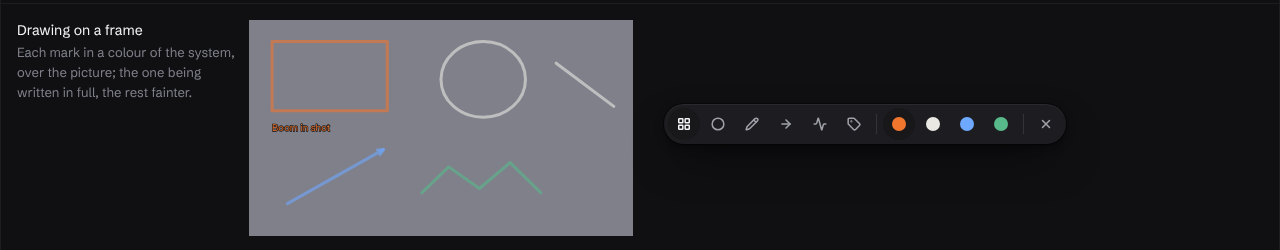
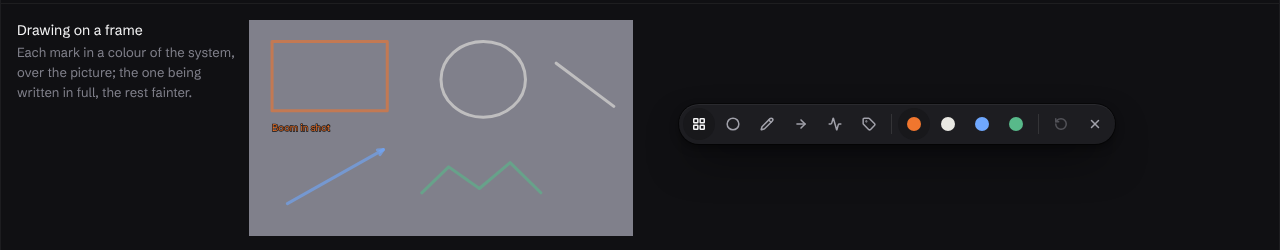
fix(web): drawings follow each frame, seek from their comment, undo, and match their region (#146)
While a video with drawings plays, the player follows each presented frame
(requestVideoFrameCallback), so a single-frame drawing is shown; a drawing's comment label seeks
to its frame; the toolbar's Undo brings back the drawing a new one replaced; and the schema
refuses a drawn region whose rectangle is not its drawing's bounds.

Claude-Session: https://claude.ai/code/session_015TRj2XJrf2hGBbTKBkRfmp

Changed region(s): [[0.5312, 0.448, 0.875, 0.532], [0.8125, 0.392, 0.8438, 0.42]]

diff --git a/apps/web/src/components/drawings.tsx b/apps/web/src/components/drawings.tsx
@@ -5,7 +5,14 @@ import {
   drawingColours,
   drawingTools,
 } from "@hekate/shared";
-import { type PointerEvent, type ReactNode, useRef, useState } from "react";
+import {
+  type PointerEvent,
+  type ReactNode,
+  type RefObject,
+  useEffect,
+  useRef,
+  useState,
+} from "react";
 import { cn } from "~/lib/cn";
 import { Icon, type IconName } from "./icons";
 import { Input } from "./ui/input";
@@ -48,6 +55,43 @@ const toolCopy: Record<DrawingTool, { label: string; icon: IconName }> = {
   free: { label: "Freehand", icon: "pulse" },
   text: { label: "Text", icon: "tag" },
 };
+
+/**
+ * The picture's own time, frame by frame while it plays (#146). `timeupdate` comes only a few
+ * times a second, so a drawing on a single frame would slip past unseen between two of them;
+ * each frame the video presents is followed here instead. Paused, it is `fallback`.
+ */
+export function useFrameClock(
+  video: RefObject<HTMLVideoElement | null>,
+  running: boolean,
+  fallback: number,
+): number {
+  const [now, setNow] = useState<number | null>(null);
+  useEffect(() => {
+    const element = video.current;
+    if (!running || !element) {
+      setNow(null);
+      return;
+    }
+    let stopped = false;
+    let handle = 0;
+    const perFrame = typeof element.requestVideoFrameCallback === "function";
+    const tick = (_at?: number, frame?: VideoFrameCallbackMetadata) => {
+      if (stopped) return;
+      setNow(frame?.mediaTime ?? element.currentTime);
+      handle = perFrame
+        ? element.requestVideoFrameCallback(tick)
+        : requestAnimationFrame(() => tick());
+    };
+    tick();
+    return () => {
+      stopped = true;
+      if (perFrame) element.cancelVideoFrameCallback(handle);
+      else cancelAnimationFrame(handle);
+    };
+  }, [video, running]);
+  return now ?? fallback;
+}
 
 /** Units across the picture's height; its width is the aspect times this, so shapes keep their shape. */
 const H = 1000;
@@ -304,12 +348,15 @@ export function DrawToolbar({
   onTool,
   colour,
   onColour,
+  onUndo,
   onClose,
 }: {
   tool: DrawingTool;
   onTool: (tool: DrawingTool) => void;
   colour: DrawingColour;
   onColour: (colour: DrawingColour) => void;
+  /** Takes back the last drawing, as the prototype's toolbar does; absent when there is none. */
+  onUndo?: () => void;
   onClose: () => void;
 }) {
   const button =
@@ -349,6 +396,19 @@ export function DrawToolbar({
         </button>
       ))}
       <span className="mx-1 h-5 w-px bg-line-strong" />
+      <button
+        type="button"
+        aria-label="Undo"
+        title="Undo"
+        disabled={!onUndo}
+        onClick={onUndo}
+        className={cn(
+          button,
+          "text-ink-2 hover:text-ink disabled:cursor-default disabled:opacity-40",
+        )}
+      >
+        <Icon name="back5" size={14} />
+      </button>
       <button
         type="button"
         aria-label="Stop drawing"

diff --git a/apps/web/src/components/player.tsx b/apps/web/src/components/player.tsx
@@ -59,6 +59,7 @@ import {
   DrawToolbar,
   type FrameDraft,
   type FrameDrawing,
+  useFrameClock,
 } from "./drawings";
 import { EditLane } from "./edit-lane";
 import { Icon } from "./icons";
@@ -297,6 +298,13 @@ export function Player({
   const clock = useMemo(() => (info?.video ? videoClock(info.video) : null), [info?.video]);
   /** How long a frame shows: a drawing on one shows for that long (#146). */
   const frameSeconds = clock ? frameTime(1, clock.rate) : 1 / 25;
+  // Followed frame by frame while it plays, but only when there is a drawing to show (#146).
+  const frameNow = useFrameClock(media, kind === "video" && playing && drawings.length > 0, time);
+  /** The drafts each new drawing replaced, newest last, for Undo; gone once the draft is. */
+  const undo = useRef<(FrameDraft | null)[]>([]);
+  useEffect(() => {
+    if (!draft) undo.current = [];
+  }, [draft]);
   const [matte, setMatte] = useState<Matte | null>(null);
   const [safe, setSafe] = useState(false);
   // Drawing on the frame (#146): the tool and colour chosen, kept while drawing is on.
@@ -724,7 +732,7 @@ export function Player({
             <DrawingMarks
               aspect={info.video.width / info.video.height}
               drawings={drawings
-                .filter((d) => regionShowsAt(d, time, frameSeconds))
+                .filter((d) => regionShowsAt(d, frameNow, frameSeconds))
                 .map((d) => d.drawing)}
               draft={draft?.drawing ?? null}
             />
@@ -735,18 +743,21 @@ export function Player({
                 tool={tool}
                 colour={colour}
                 aspect={info.video.width / info.video.height}
-                onDrawn={(drawing) =>
+                onDrawn={(drawing) => {
+                  // Each drawing replaces the one before, which Undo brings back.
+                  undo.current.push(draft);
                   onDraft({
                     drawing,
                     at: Math.round((media.current?.currentTime ?? time) * 1000) / 1000,
-                  })
-                }
+                  });
+                }}
               />
               <DrawToolbar
                 tool={tool}
                 onTool={setTool}
                 colour={colour}
                 onColour={setColour}
+                onUndo={draft ? () => onDraft(undo.current.pop() ?? null) : undefined}
                 onClose={() => setDrawingOn(false)}
               />
             </>

diff --git a/packages/shared/src/anchor.ts b/packages/shared/src/anchor.ts
@@ -81,7 +81,22 @@ export const regionAnchor = z
   .refine((a) => a.end === undefined || (a.at !== undefined && a.end >= a.at), {
     message: "a range must start before it ends",
     path: ["end"],
-  });
+  })
+  // The region is where the drawing is, never somewhere else, whoever sent it.
+  .refine(
+    (a) => {
+      if (!a.drawing) return true;
+      const box = drawingBounds(a.drawing);
+      const near = (p: number, q: number) => Math.abs(p - q) < 1e-3;
+      return (
+        near(a.x, box.x) &&
+        near(a.y, box.y) &&
+        near(a.width, box.width) &&
+        near(a.height, box.height)
+      );
+    },
+    { message: "a drawn region is the box around its drawing", path: ["drawing"] },
+  );
 
 /** The box around a drawing, as its region: at least a hair wide, so a straight line has one. */
 export function drawingBounds(d: Pick<Drawing, "points">): {

diff --git a/apps/web/src/components/comments.tsx b/apps/web/src/components/comments.tsx
@@ -813,6 +813,16 @@ function ThreadView({
               {marker && <span className="text-signal">{marker.n}</span>}
               {label(anchor)}
             </button>
+          ) : anchor.kind === "region" && anchor.at !== undefined ? (
+            // A drawing on a video's frame (#146): back to its frame, as the prototype does.
+            <button
+              type="button"
+              onClick={() => onSeek(anchor.at ?? 0)}
+              className="tabular h-6 cursor-pointer rounded-chip border border-edge bg-transparent px-2 text-[11px] text-ink hover:border-signal"
+              aria-label={`Show the drawing at ${label({ kind: "time", start: anchor.at, end: anchor.at })}`}
+            >
+              {label(anchor)}
+            </button>
           ) : (
             <span className="label">{formatAnchor(anchor, time ? { time } : {})}</span>
           )

diff --git a/packages/shared/src/drawing.test.ts b/packages/shared/src/drawing.test.ts
@@ -94,6 +94,18 @@ describe("drawings on a frame or page (#146)", () => {
       drawing: d,
     });
     expect(parsed).toMatchObject({ kind: "region", drawing: { tool: "circle" } });
+    // A region somewhere other than its drawing is refused, whoever sends it.
+    expect(
+      anchor.safeParse({
+        kind: "region",
+        at: 12.5,
+        x: 0,
+        y: 0,
+        width: 0.1,
+        height: 0.1,
+        drawing: d,
+      }).success,
+    ).toBe(false);
     expect(
       anchor.safeParse({ kind: "region", at: 12, end: 11, x: 0, y: 0, width: 1, height: 1 })
         .success,

diff --git a/apps/web/src/routes/reference.tsx b/apps/web/src/routes/reference.tsx
@@ -709,7 +709,7 @@ function Components() {
               }}
             />
           </div>
-          <div className="relative h-14 w-full max-w-[28rem]">
+          <div className="relative h-14 w-full max-w-[32rem]">
             <DrawToolbar
               tool="box"
               onTool={() => {}}

diff --git a/docs/decisions.md b/docs/decisions.md
@@ -674,9 +674,9 @@ Who may move a project between workspaces, and how it is confirmed (#240), on to
 
 Drawing on the picture (#146), on top of the video's own timecode (decision 134).
 
-- **A drawing is a region anchor.** It is not a new kind of anchor. A region on a video carries the time it was drawn at (`at`), optionally an end (`end`) for a drawing meant to stay over a range, and the `drawing` itself: one tool (box, circle, line, arrow, freehand or text), one of four colours, and its points in the picture's normalised coordinates. The region's rectangle is the drawing's bounds, so anything that reads regions (the comment sheet, exports) keeps working without knowing about drawings.
+- **A drawing is a region anchor.** It is not a new kind of anchor. A region on a video carries the time it was drawn at (`at`), optionally an end (`end`) for a drawing meant to stay over a range, and the `drawing` itself: one tool (box, circle, line, arrow, freehand or text), one of four colours, and its points in the picture's normalised coordinates. The region's rectangle is the drawing's bounds, and the schema refuses one that is not, so anything that reads regions (the comment sheet, exports) keeps working without knowing about drawings and can never point somewhere else.
 - **Colours are named, not chosen freely.** Orange (the signal colour), white, blue and green, each a token in `tokens.css`. A drawing never stores a hex value, so it follows the theme and stays legible over any picture.
-- **Shown at its frame.** A drawing shows while the playhead is on its frame, or anywhere in its range, and the one being written shows over the others, which fade. Drawings take no clicks, so the picture still plays and pauses beneath them.
-- **Drawing pauses.** Choosing Draw pauses playback and lays the tools over the foot of the picture. A drag draws a box, circle, line or arrow from corner to corner, or a freehand stroke along its path; a click places text. The drawing joins the comment being written as its anchor, and can be discarded before it is posted.
+- **Shown at its frame.** A drawing shows while the playhead is on its frame, or anywhere in its range, and the one being written shows over the others, which fade. While a video with drawings plays, the player follows each frame it presents (`requestVideoFrameCallback`), since the media element's own time updates come too seldom to land on a single frame. Drawings take no clicks, so the picture still plays and pauses beneath them; a drawing's comment label takes you back to its frame.
+- **Drawing pauses.** Choosing Draw pauses playback and lays the tools over the foot of the picture. A drag draws a box, circle, line or arrow from corner to corner, or a freehand stroke along its path; a click places text. The drawing joins the comment being written as its anchor; a new drawing replaces it, Undo brings back the one before, and it can be discarded before it is posted.
 - **Checked like any time.** A drawing past the end of the video, or ending before it starts, is refused. A new version's alignment moves a drawing's time and end as it moves any other time.
 - **Timecode on a video's comments.** A comment on a video is labelled in the video's own timecode, frames and all, where one on audio keeps minutes and seconds.
